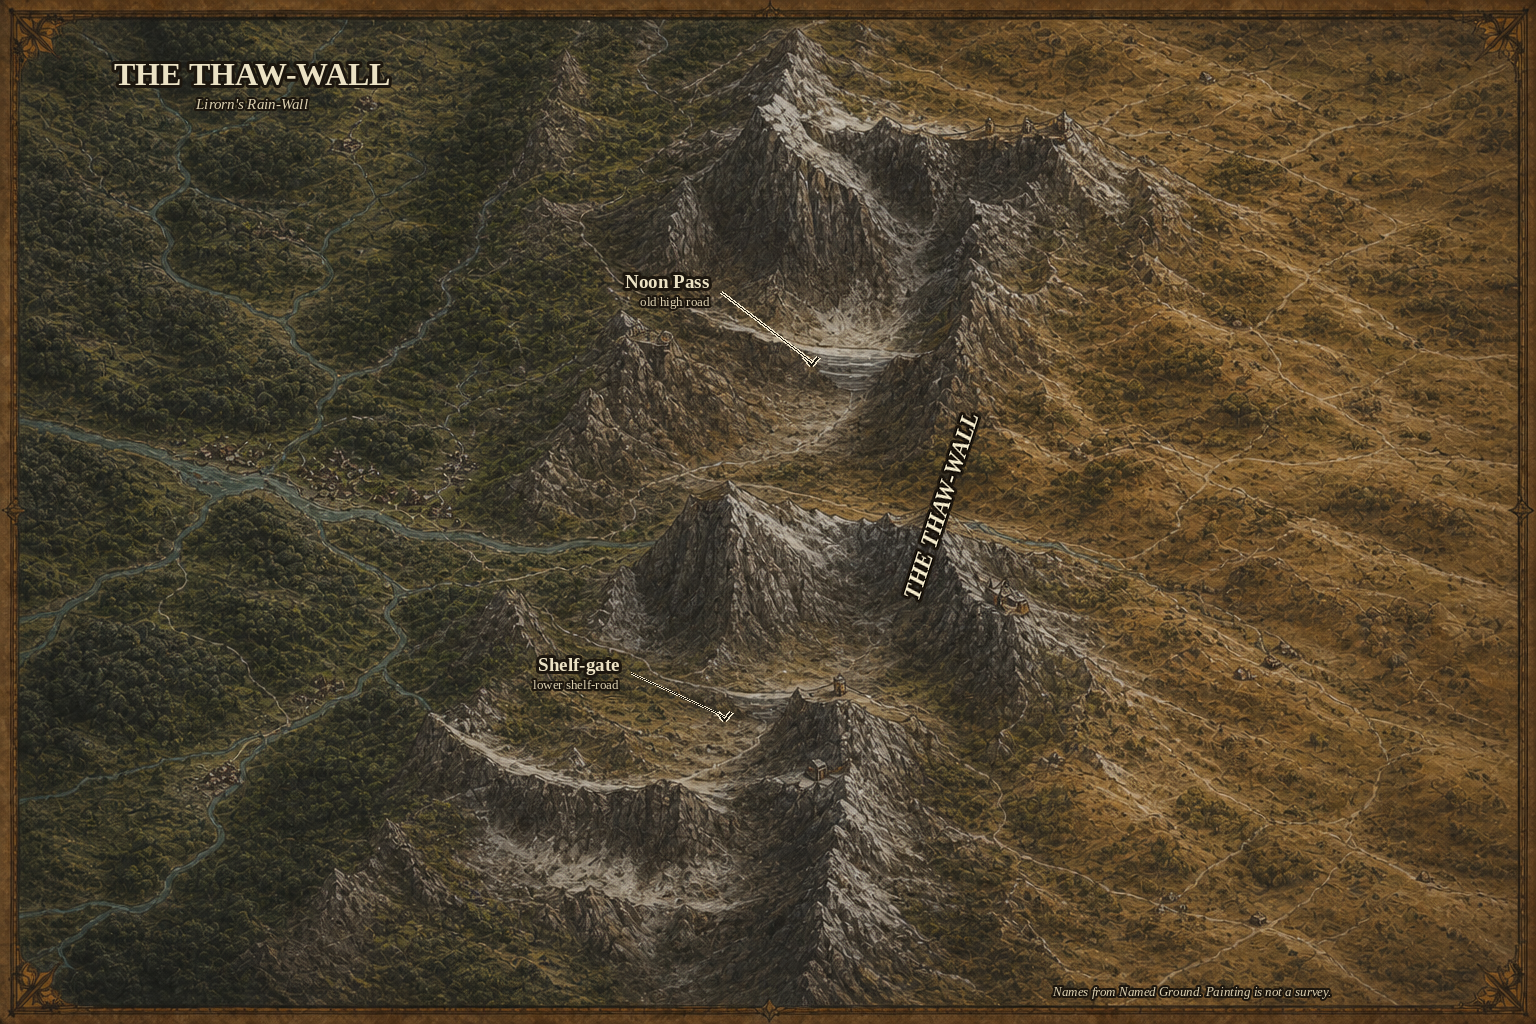
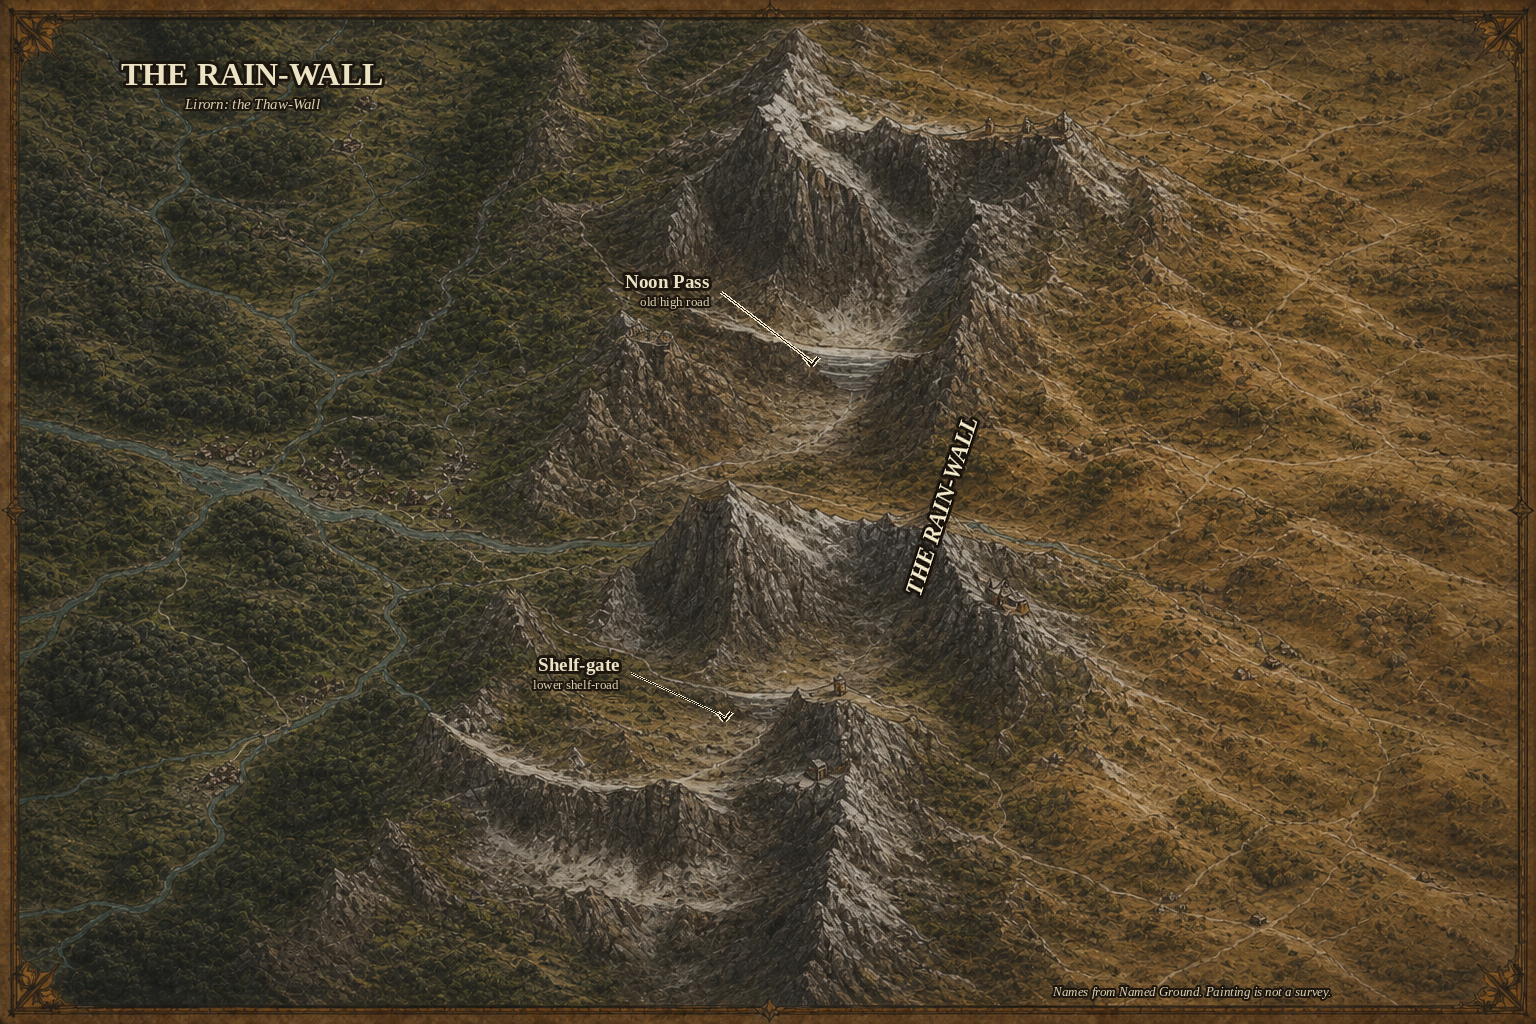
Make Rain-Wall the primary atlas label

Changed region(s): [[0.0625, 0.0625, 0.25, 0.125], [0.5938, 0.4375, 0.625, 0.5938], [0.625, 0.4062, 0.6562, 0.4375]]

diff --git a/14 - Assets/Maps/label_rain_wall_atlas.py b/14 - Assets/Maps/label_rain_wall_atlas.py
@@ -6,9 +6,10 @@ Ground, the Known Map schematic, and the R3 prompt. Rebuild:
 
     python3 "14 - Assets/Maps/label_rain_wall_atlas.py"
 
-West is left. Lirorn calls Maiethorn's Rain-Wall the Thaw-Wall. Noon Pass
-is the old high road; Shelf-gate is the lower road left after the Break.
-These highlands are not Heskoren's spine and carry no Kind-territory fill.
+West is left. Rain-Wall is the common name; Lirorn calls it the Thaw-Wall.
+Noon Pass is the old high road; Shelf-gate is the lower road left after
+the Break. These highlands are not Heskoren's spine and carry no
+Kind-territory fill.
 """
 
 from __future__ import annotations
@@ -121,12 +122,11 @@ def build() -> Image.Image:
     caption_f = font(SERIF, 13)
     note = font(SERIF_ITALIC, 13)
 
-    # Name the divide by Lirorn's everyday handle. The smaller line makes the
-    # relationship to the continent-scale Rain-Wall explicit without adding a
-    # second mapped feature.
-    halo_text(ink, (252, 74), "THE THAW-WALL", title, TYPE)
-    halo_text(ink, (252, 104), "Lirorn's Rain-Wall", subtitle, TYPE_MUTED, stroke=2)
-    paste_rotated(canvas, "THE THAW-WALL", region, TYPE, (941, 506), angle=72)
+    # Rain-Wall is the common atlas name. Lirorn's Thaw-Wall remains a local
+    # secondary handle rather than replacing the mapped feature's name.
+    halo_text(ink, (252, 74), "THE RAIN-WALL", title, TYPE)
+    halo_text(ink, (252, 104), "Lirorn: the Thaw-Wall", subtitle, TYPE_MUTED, stroke=2)
+    paste_rotated(canvas, "THE RAIN-WALL", region, TYPE, (941, 506), angle=72)
 
     # Noon Pass is the older, higher northern notch. Its pale water-line and
     # the road ribbon remain physical texture; the overlay adds no boundary.

diff --git a/00 - Core/Concept/Build Plan.md b/00 - Core/Concept/Build Plan.md
@@ -18,7 +18,7 @@ updated: 2026-09-16
 
 ## Active next
 
-**Epic A — Atlas labels (2026-09-16).** One labeled overlay per selected painting, one story / one session. Method locked in A.1: Pillow on the unlabeled master; do not ask the image model to write; names from [[Named Ground]] and [[The Known Map]]; painting vs note → the note wins. **A.1 Heskoren (C3) ✅** — `Heskoren-Atlas-Labeled.png`. **A.2 World sheet ✅** — `The-Turning-World-Atlas-Labeled.png`. **A.3 Maiethorn (C1) ✅** — `Maiethorn-Atlas-Labeled.png`; Thaeloren is the sole exceptional Tree, Inner Close remains a town inside Orenbren, and neither gets a capital star. **A.4 Strandoren (C2) ✅** — `Strandoren-Atlas-Labeled.png`; Orentel is a plain-dot seat at the eastern estuary, while Trenledd and Netstrand remain borderless area labels with unnamed seats. **A.5 Kumbaan (C4) ✅** — `Kumbaan-Atlas-Labeled.png`; land-type on the hill-country and the storm-wall on the outer cloud-ring, with no point marker, graft, city, harbour, safe channel, or Tree. **A.6 Old Crossing (R1) ✅** — `Old-Crossing-Atlas-Labeled.png`; Orentel and the unnamed-seat Hinge Shore face each other, while the Hush-rate is a crossing-charge cartouche rather than a border. **A.8 Rain-Wall (R3) ✅** — `Rain-Wall-Atlas-Labeled.png`; Thaw-Wall names Lirorn's Rain-Wall, Noon Pass is the older high notch, and Shelf-gate is the lower surviving road, with no borders or Kind-nation fill. **Next: A.7 Sacred Core (R2).** Remaining: R2 and R4–R8. Unlabeled Prototype 3 sheets stay the selected handouts. World book untouched.
+**Epic A — Atlas labels (2026-09-16).** One labeled overlay per selected painting, one story / one session. Method locked in A.1: Pillow on the unlabeled master; do not ask the image model to write; names from [[Named Ground]] and [[The Known Map]]; painting vs note → the note wins. **A.1 Heskoren (C3) ✅** — `Heskoren-Atlas-Labeled.png`. **A.2 World sheet ✅** — `The-Turning-World-Atlas-Labeled.png`. **A.3 Maiethorn (C1) ✅** — `Maiethorn-Atlas-Labeled.png`; Thaeloren is the sole exceptional Tree, Inner Close remains a town inside Orenbren, and neither gets a capital star. **A.4 Strandoren (C2) ✅** — `Strandoren-Atlas-Labeled.png`; Orentel is a plain-dot seat at the eastern estuary, while Trenledd and Netstrand remain borderless area labels with unnamed seats. **A.5 Kumbaan (C4) ✅** — `Kumbaan-Atlas-Labeled.png`; land-type on the hill-country and the storm-wall on the outer cloud-ring, with no point marker, graft, city, harbour, safe channel, or Tree. **A.6 Old Crossing (R1) ✅** — `Old-Crossing-Atlas-Labeled.png`; Orentel and the unnamed-seat Hinge Shore face each other, while the Hush-rate is a crossing-charge cartouche rather than a border. **A.8 Rain-Wall (R3) ✅** — `Rain-Wall-Atlas-Labeled.png`; Rain-Wall is primary, Lirorn's Thaw-Wall handle is secondary, Noon Pass is the older high notch, and Shelf-gate is the lower surviving road, with no borders or Kind-nation fill. **Next: A.7 Sacred Core (R2).** Remaining: R2 and R4–R8. Unlabeled Prototype 3 sheets stay the selected handouts. World book untouched.
 
 **Atlas follow-up complete (2026-09-01).** Prototype 3 remains the selected master set. Regional sheets that share a parent are distinct generated paintings, not continent crops: Sacred Core versus Rain-Wall (Maiethorn); Chart-run versus West Water (Strandoren). Styled to the rest of the atlas. [[The Atlas Sheets]] and [[Map Generation Tooling]] record the contract. Incidental generated detail is non-canon. World book untouched.
 

diff --git a/14 - Assets/Maps/Map Generation Tooling.md b/14 - Assets/Maps/Map Generation Tooling.md
@@ -471,7 +471,7 @@ python3 "14 - Assets/Maps/label_old_crossing_atlas.py"
 python3 "14 - Assets/Maps/label_rain_wall_atlas.py"
 ```
 
-These write the labeled overlays completed through **Epic A / Story A.8** (with A.7 still queued). Relative seats follow the Known Map schematic and the settlement notes. Kumbaan receives only land-type and the storm-wall along its outer cloud-ring: no point marker, graft, city, harbour, safe channel, or Tree. On the Old Crossing sheet, the Hush-rate is a crossing-charge cartouche, not a line or political border. On the Rain-Wall sheet, Lirorn's Thaw-Wall handle and the two pass-notches add no border or Kind-territory fill. Incidental generated roofs, field-grids, standing stones, wrecks, extra painted isles, and unnamed quays stay unnamed. Unlabeled sheets remain the selected handouts. Later sheets are one [[Roadmap#Epic A — Atlas labels|Epic A]] story each — copy this overlay pattern; do not ask the image model to write.
+These write the labeled overlays completed through **Epic A / Story A.8** (with A.7 still queued). Relative seats follow the Known Map schematic and the settlement notes. Kumbaan receives only land-type and the storm-wall along its outer cloud-ring: no point marker, graft, city, harbour, safe channel, or Tree. On the Old Crossing sheet, the Hush-rate is a crossing-charge cartouche, not a line or political border. On the Rain-Wall sheet, Rain-Wall is primary, Lirorn's Thaw-Wall handle is secondary, and the two pass-notches add no border or Kind-territory fill. Incidental generated roofs, field-grids, standing stones, wrecks, extra painted isles, and unnamed quays stay unnamed. Unlabeled sheets remain the selected handouts. Later sheets are one [[Roadmap#Epic A — Atlas labels|Epic A]] story each — copy this overlay pattern; do not ask the image model to write.
 
 Suggested first labels, not a new gazetteer:
 

diff --git a/14 - Assets/Maps/The Atlas Sheets.md b/14 - Assets/Maps/The Atlas Sheets.md
@@ -170,7 +170,7 @@ The unlabeled R1 sheet stays the selected handout. Script: `14 - Assets/Maps/lab
 
 ## Rain-Wall overlay — 2026-09-16
 
-Pillow overlay on the selected Prototype 3 R3 master. Lirorn's common handle, **the Thaw-Wall**, names Maiethorn's weathered north–south divide. The Noon Pass points to the older high northern road-notch and its water-line; Shelf-gate points to the lower road left after the Break. Small notch marks distinguish both from settlements and draw no border. The wet west face, dry east fall, snow-shelves, ridge towns, roads, and rivers remain painted terrain rather than additional named features. No label or fill claims Heskoren's separate spine, a Tengu nation, or a Fox nation.
+Pillow overlay on the selected Prototype 3 R3 master. **The Rain-Wall** names Maiethorn's weathered north–south divide; Lirorn's local **Thaw-Wall** handle appears only as a secondary subtitle. The Noon Pass points to the older high northern road-notch and its water-line; Shelf-gate points to the lower road left after the Break. Small notch marks distinguish both from settlements and draw no border. The wet west face, dry east fall, snow-shelves, ridge towns, roads, and rivers remain painted terrain rather than additional named features. No label or fill claims Heskoren's separate spine, a Tengu nation, or a Fox nation.
 
 The unlabeled R3 sheet stays the selected handout. Script: `14 - Assets/Maps/label_rain_wall_atlas.py`.
 
